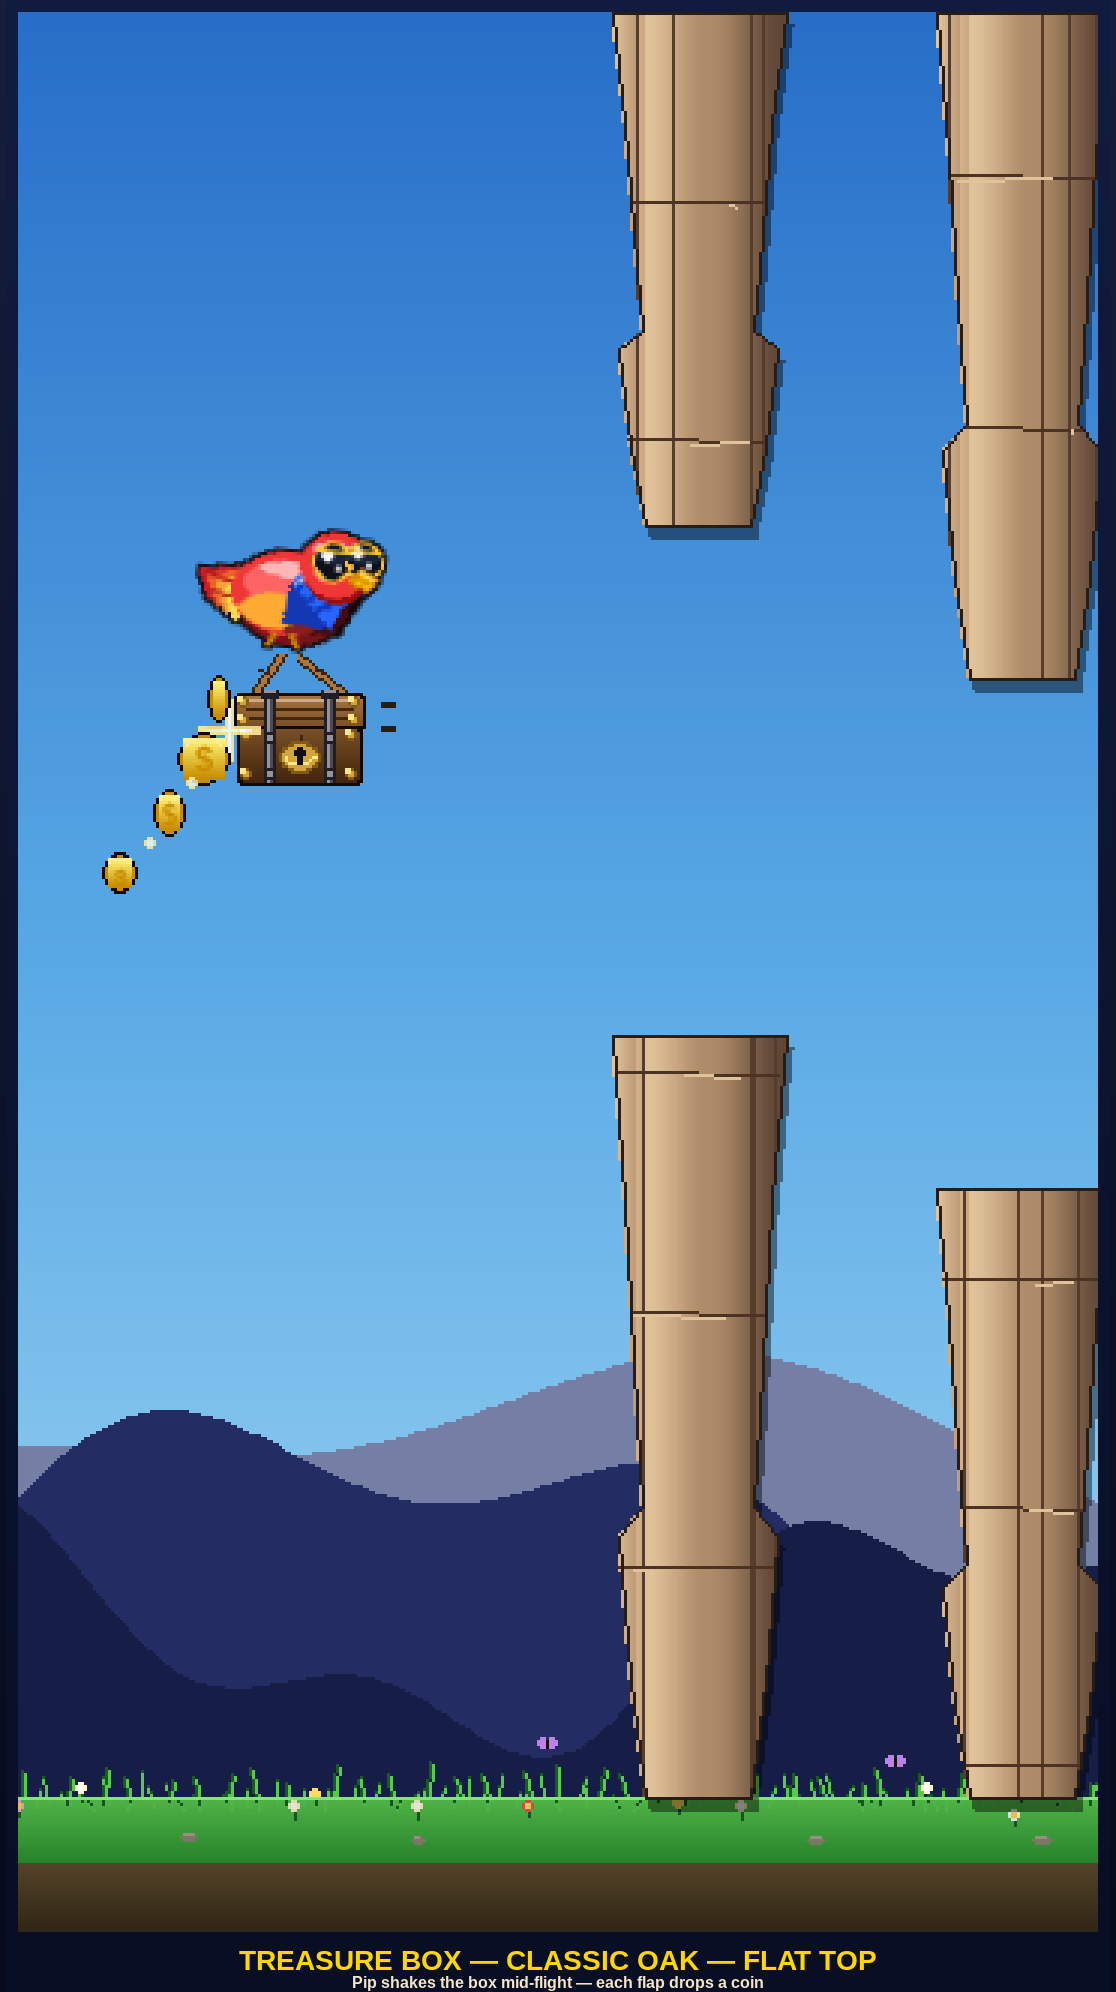
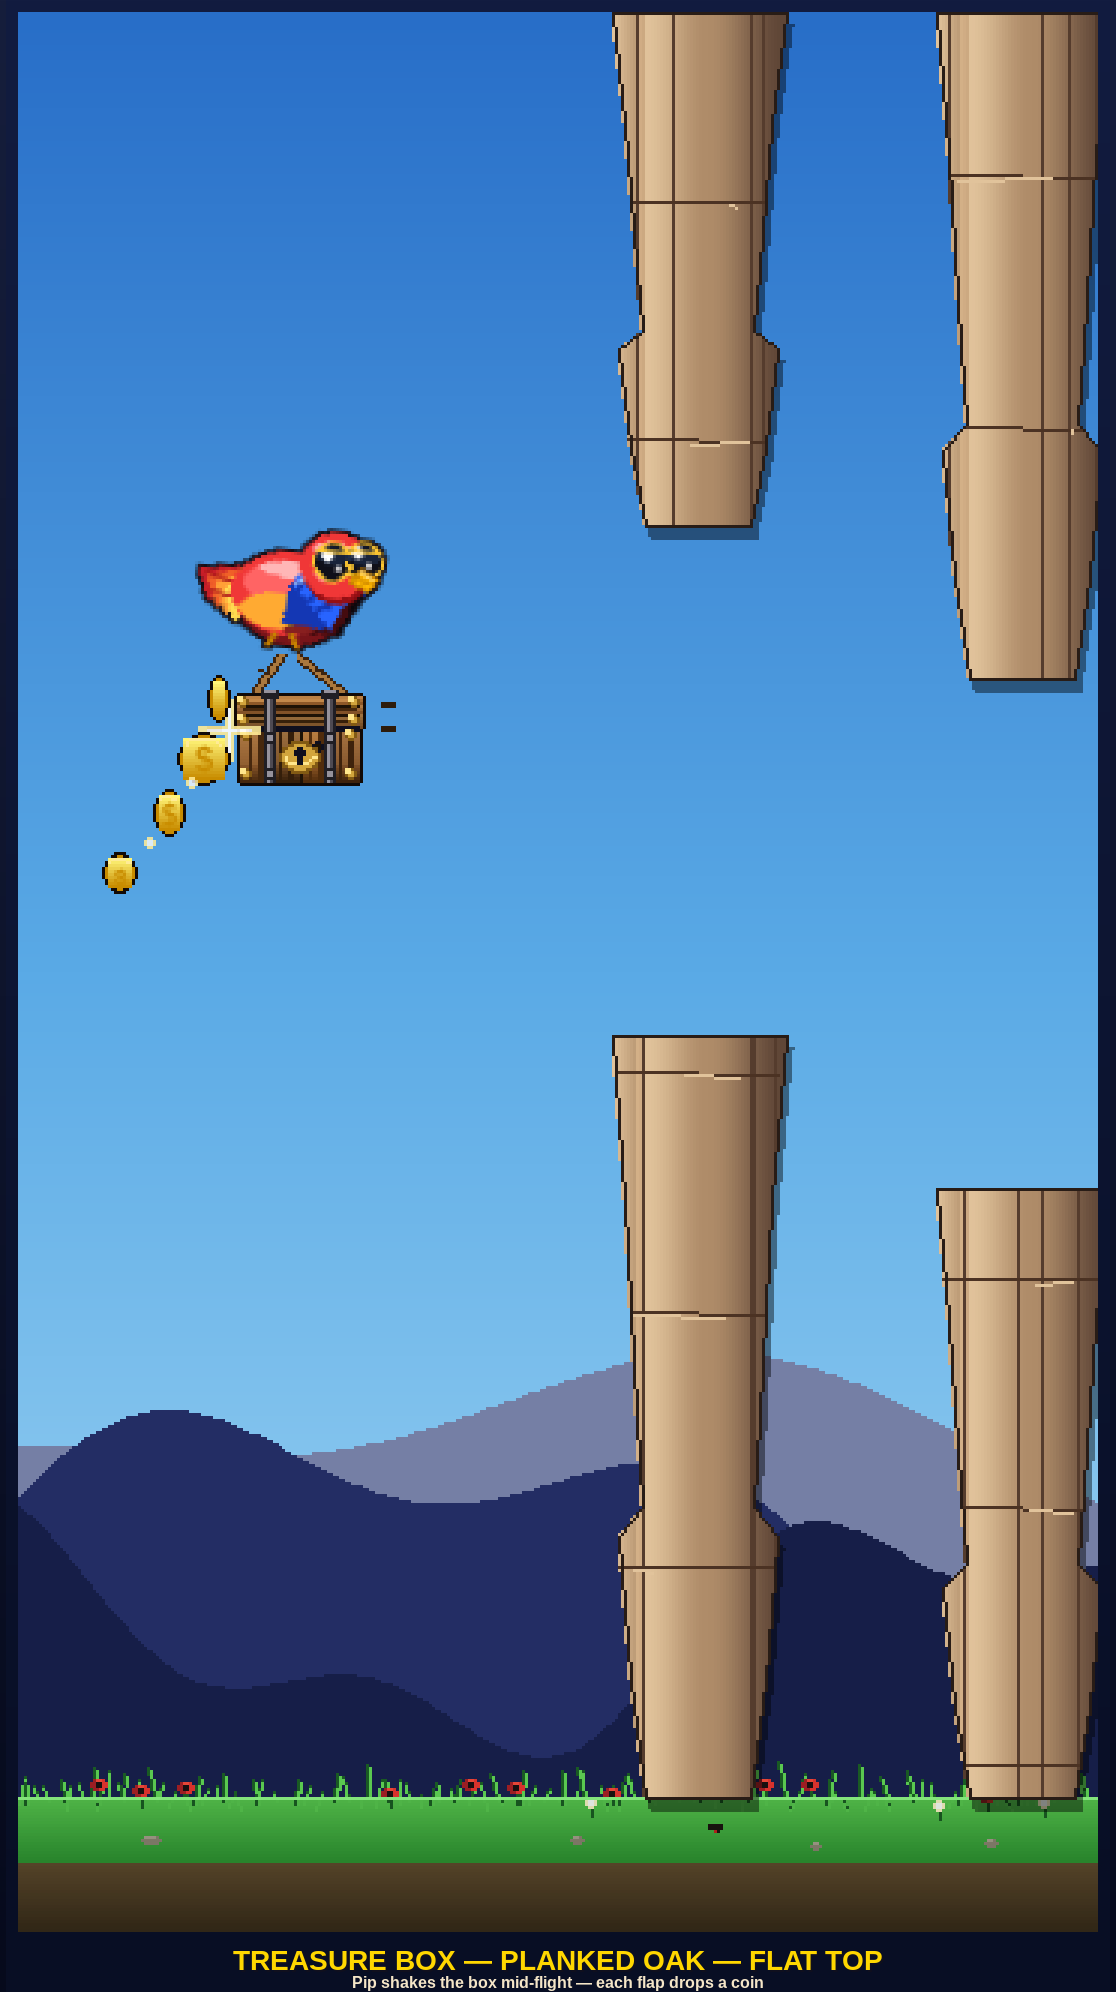
treasure-box: round 7 — visible plank construction so it reads as wood
Round 6 still read as briefcase because the body was a single
smooth-gradient slab — no real wood would look that uniform. Round 7
builds the chest from individual planks with visible seams:

  - Body front: 4 vertical planks, each ~10 px wide. Each plank picks
    its own slight RGB shift off the base oak tones so neighbouring
    planks read as different pieces of timber (one a little redder,
    one a little greyer, one a little lighter, etc.). Dark groove
    seams between planks. A small knot on plank 3.
  - Lid front: 3 horizontal slats, top to bottom getting darker (top
    catches more light, bottom is in shadow). Dark groove seams
    between slats.
  - Per-plank vertical grain streaks (2-3 darker hairlines per plank)
    + horizontal grain on the lid slats.
  - Iron wrap-straps, brass corner studs, brass oval keyhole plate
    all unchanged — they sit on top of the planked face.

Still just the one variant in the registry (PLANKED OAK — FLAT TOP).
Once the texture lands, I'll spin off sibling chests with the same
plank rig.

diff --git a/game/treasure_box_variants.py b/game/treasure_box_variants.py
@@ -1,16 +1,25 @@
-"""Treasure box power-up — round 6: flat-top variant of round 5's #1.
+"""Treasure box power-up — round 7: visible wood-plank construction.
 
-User picked round 5's CLASSIC OAK DOMED but asked for a flat lid
-instead of the curved dome. Same warm-oak palette, same iron wrap-
-straps, same brass keyhole plate, same carry ropes — only the lid
-geometry changes: a substantial flat slab on top of the body, with
-the iron straps now wrapping from the body's bottom up the front of
-the body AND the front of the lid, capped where they bend over the
-top edge.
+User feedback on round 6: the smooth-gradient flat-top still read as
+a briefcase. Real wooden chests are built from individual planks
+joined together — the SEAMS between planks, the knots, and the per-
+plank colour drift are what sell "this is wood" instead of "this is a
+manufactured shell."
 
-`draw_classic_oak_flat(surf, bird_cx, bird_cy, t=0.0)` paints the
-carry ropes, the chest, motion lines, and the 4-coin spill cascade.
-The bird itself is positioned by the caller.
+Round 7 rebuilds the chest face from individual planks:
+  - Body front face: 4 vertical planks (each ~10 px wide), each plank
+    has its own slight wood-tone variation + grain streaks + dark gap
+    seams between neighbouring planks. One plank carries a small knot.
+  - Lid front face: 3 horizontal planks (top, mid, bottom slats),
+    same per-plank colour drift + horizontal grain + dark gap seams
+    between them.
+  - Iron wrap-straps unchanged geometrically — they sit on top of the
+    plank face, hiding part of two planks each.
+
+Only one variant in the registry — user picked variant #1 in round 5
+and asked for two refinements (flat top + plank texture). When they
+approve the texture I'll spin off siblings for the colour palette and
+hardware passes.
 
 Preview-only — nothing in game/ imports this yet."""
 import math
@@ -36,10 +45,12 @@ IRON_HI    = (150, 146, 156)
 ROPE_BASE  = (170, 120,  62)
 ROPE_DARK  = ( 60,  35,  15)
 
-# Warm oak — same palette as round 5's classic_oak_domed.
-WOOD_HI   = (165, 115,  62)
-WOOD_MID  = (120,  78,  38)
-WOOD_DARK = ( 68,  38,  14)
+# Warm oak base tones. Each plank picks slight RGB shifts off these to
+# get the per-plank colour drift you see on real timber.
+WOOD_HI   = (175, 122,  68)
+WOOD_MID  = (130,  82,  40)
+WOOD_DARK = ( 70,  40,  14)
+WOOD_GROOVE = ( 30,  18,   6)   # the dark seam between planks
 
 
 # ── font cache ──────────────────────────────────────────────────────────────
@@ -119,31 +130,140 @@ def _shake_lines(surf, cx, cy, w=18, *, color=(40, 30, 20)):
 
 BOX_W  = 40
 BODY_H = 18
-LID_H  = 11        # substantial slab — NOT a briefcase-thin strip
+LID_H  = 11
 
 
 def _box_rect(cx, cy):
     return pygame.Rect(cx - BOX_W // 2, cy - BODY_H // 2, BOX_W, BODY_H)
 
 
-# ── helpers ─────────────────────────────────────────────────────────────────
+# ── plank rendering ─────────────────────────────────────────────────────────
 
-def _gradient_rect(surf, rect, top_col, bot_col, *, radius=3):
-    body = pygame.Surface((rect.w, rect.h), pygame.SRCALPHA)
+def _shift(rgb, dr, dg, db):
+    return (
+        max(0, min(255, rgb[0] + dr)),
+        max(0, min(255, rgb[1] + dg)),
+        max(0, min(255, rgb[2] + db)),
+    )
+
+
+# Per-plank colour drift. Each tuple is an (R, G, B) shift applied to
+# the base WOOD_HI / WOOD_MID / WOOD_DARK so each plank reads as its
+# own piece of timber — some redder, some greyer, some lighter at the
+# top, etc. Pulled from a quick survey of real-pirate-chest references
+# where planks rarely match perfectly.
+_BODY_PLANK_SHIFTS = (
+    (   0,   0,   0),    # plank 1 — base oak
+    ( -18, -10,  -4),    # plank 2 — slightly darker
+    ( +10,  +4,  -2),    # plank 3 — slightly redder/warmer
+    (  -8,  -6,  -2),    # plank 4 — slightly cooler
+)
+_LID_PLANK_SHIFTS = (
+    ( +12,  +6,   0),    # top slat — lighter (catches more light)
+    (   0,   0,   0),    # middle slat — base
+    ( -16,  -8,  -4),    # bottom slat — shadowed
+)
+
+
+def _paint_vertical_plank(surf, rect, hi, mid, dark):
+    """One vertical plank: top-to-bottom gradient + a few vertical
+    grain streaks for texture."""
+    # Gradient fill (top lighter, bottom darker)
     for y in range(rect.h):
         t = y / max(1, rect.h - 1)
-        c = lerp_color(top_col, bot_col, t) + (255,)
-        body.fill(c, pygame.Rect(0, y, rect.w, 1))
-    mask = pygame.Surface((rect.w, rect.h), pygame.SRCALPHA)
-    pygame.draw.rect(mask, (255, 255, 255, 255), mask.get_rect(),
-                     border_radius=radius)
-    body.blit(mask, (0, 0), special_flags=pygame.BLEND_RGBA_MIN)
-    surf.blit(body, rect.topleft)
+        c = lerp_color(hi, mid, t)
+        pygame.draw.line(surf, c,
+                         (rect.x, rect.y + y),
+                         (rect.right - 1, rect.y + y))
+    # Bottom 1/3 darker shadow
+    for y in range(rect.h * 2 // 3, rect.h):
+        t = (y - rect.h * 2 // 3) / max(1, rect.h // 3 - 1)
+        c = lerp_color(mid, dark, t)
+        pygame.draw.line(surf, c,
+                         (rect.x, rect.y + y),
+                         (rect.right - 1, rect.y + y))
+    # Vertical grain streaks — 2-3 thin darker lines running the height
+    # of the plank, at slightly random horizontal positions
+    grain_xs = (rect.w // 3, rect.w // 2 + 1, rect.w - 3)
+    for gx_off in grain_xs:
+        gx = rect.x + gx_off
+        if rect.x < gx < rect.right - 1:
+            pygame.draw.line(surf, dark,
+                             (gx, rect.y + 1),
+                             (gx, rect.bottom - 2), 1)
 
+
+def _paint_horizontal_plank(surf, rect, hi, mid, dark):
+    """One horizontal plank (used on the lid): top-to-bottom gradient
+    + horizontal grain streaks running along the plank's length."""
+    for y in range(rect.h):
+        t = y / max(1, rect.h - 1)
+        c = lerp_color(hi, mid, t)
+        pygame.draw.line(surf, c,
+                         (rect.x, rect.y + y),
+                         (rect.right - 1, rect.y + y))
+    # Horizontal grain — 1 darker line near the centre of the plank
+    if rect.h >= 3:
+        gy = rect.y + rect.h // 2
+        pygame.draw.line(surf, dark,
+                         (rect.x + 2, gy),
+                         (rect.right - 3, gy), 1)
+
+
+def _draw_body_planks(surf, body):
+    """Paint the body face as 4 vertical planks with dark seam-grooves
+    between them and a single knot on one plank."""
+    n = 4
+    plank_w = body.w // n
+    for i in range(n):
+        plank_x = body.x + i * plank_w
+        # Last plank picks up any width remainder
+        pw = plank_w if i < n - 1 else body.right - plank_x
+        rect = pygame.Rect(plank_x, body.y, pw, body.h)
+        ds = _BODY_PLANK_SHIFTS[i]
+        hi   = _shift(WOOD_HI,   *ds)
+        mid  = _shift(WOOD_MID,  *ds)
+        dark = _shift(WOOD_DARK, *ds)
+        _paint_vertical_plank(surf, rect, hi, mid, dark)
+
+    # Dark seam-grooves between planks
+    for i in range(1, n):
+        gx = body.x + i * plank_w
+        pygame.draw.line(surf, WOOD_GROOVE,
+                         (gx, body.y + 1), (gx, body.bottom - 1), 1)
+
+    # Knot on plank 3 (slightly off-centre, near the upper-mid of the plank)
+    knot_cx = body.x + 2 * plank_w + plank_w // 2 + 1
+    knot_cy = body.y + body.h // 3
+    pygame.draw.circle(surf, NEAR_BLACK, (knot_cx, knot_cy), 2)
+    pygame.draw.circle(surf, WOOD_GROOVE, (knot_cx, knot_cy), 1)
+
+
+def _draw_lid_planks(surf, lid):
+    """Paint the lid as 3 horizontal slats with dark seam-grooves
+    between them."""
+    n = 3
+    plank_h = lid.h // n
+    for i in range(n):
+        plank_y = lid.y + i * plank_h
+        ph = plank_h if i < n - 1 else lid.bottom - plank_y
+        rect = pygame.Rect(lid.x, plank_y, lid.w, ph)
+        ds = _LID_PLANK_SHIFTS[i]
+        hi   = _shift(WOOD_HI,   *ds)
+        mid  = _shift(WOOD_MID,  *ds)
+        dark = _shift(WOOD_DARK, *ds)
+        _paint_horizontal_plank(surf, rect, hi, mid, dark)
+
+    # Dark seam-grooves between lid slats
+    for i in range(1, n):
+        gy = lid.y + i * plank_h
+        pygame.draw.line(surf, WOOD_GROOVE,
+                         (lid.x + 1, gy), (lid.right - 2, gy), 1)
+
+
+# ── carry ropes + chest assembly ────────────────────────────────────────────
 
 def _draw_carry_ropes(surf, bird_cx, bird_cy, body_rect, lid_y):
-    """Two short hemp ropes from Pip's talons to the top-front corners
-    of the LID (above body.y, since the lid is a substantial slab)."""
     for tx, talon_dx in ((body_rect.x + 4, -3), (body_rect.right - 5, 3)):
         sx, sy = bird_cx + talon_dx, bird_cy + 22
         ex, ey = tx, lid_y - 1
@@ -154,33 +274,27 @@ def _draw_carry_ropes(surf, bird_cx, bird_cy, body_rect, lid_y):
 
 
 def _draw_chest(surf, body):
-    """Flat-top pirate chest: thick rectangular lid slab on top of the
-    rectangular body, with the iron strapping passing across both."""
+    """Flat-top plank chest: lid + body, both built from visible planks
+    with dark seam-grooves between them. Returns the lid rect."""
     lid = pygame.Rect(body.x - 1, body.y - LID_H, body.w + 2, LID_H)
 
-    # ── Lid slab ──
+    # Hairline dark outline behind both pieces
     pygame.draw.rect(surf, DK_OUTLINE, lid.inflate(2, 2), border_radius=2)
-    _gradient_rect(surf, lid, WOOD_HI, WOOD_MID, radius=2)
-    # Top-edge sheen
-    pygame.draw.line(surf, lerp_color(WOOD_HI, WHITE, 0.4),
-                     (lid.x + 3, lid.y + 1), (lid.right - 4, lid.y + 1), 1)
-    # Horizontal grain lines on the lid face
-    for gy in (lid.y + 4, lid.y + 7):
-        pygame.draw.line(surf, WOOD_DARK,
-                         (lid.x + 3, gy), (lid.right - 4, gy), 1)
+    pygame.draw.rect(surf, DK_OUTLINE, body.inflate(2, 2), border_radius=2)
 
-    # ── Dark seam where lid meets body ──
+    # Paint the plank faces
+    _draw_lid_planks(surf, lid)
+    _draw_body_planks(surf, body)
+
+    # The seam between lid and body (deeper/darker — this is where the
+    # lid would crack open if hinged).
     pygame.draw.rect(surf, NEAR_BLACK,
                      pygame.Rect(body.x, body.y - 1, body.w, 2))
 
-    # ── Body ──
-    pygame.draw.rect(surf, DK_OUTLINE, body.inflate(2, 2), border_radius=2)
-    _gradient_rect(surf, body, WOOD_MID, WOOD_DARK, radius=2)
-    # Vertical grain on the body
-    for i in range(1, 4):
-        gx = body.x + (body.w * i) // 4
-        pygame.draw.line(surf, WOOD_DARK,
-                         (gx, body.y + 2), (gx, body.bottom - 3), 1)
+    # Faint top-edge sheen on the lid to suggest sunlight catching the
+    # rounded top corners of the planks.
+    pygame.draw.line(surf, _shift(WOOD_HI, 20, 14, 6),
+                     (lid.x + 3, lid.y + 1), (lid.right - 4, lid.y + 1), 1)
 
     return lid
 
@@ -188,10 +302,6 @@ def _draw_chest(surf, body):
 def _draw_wrap_strap(surf, body, lid, dx_from_centre, *,
                      strap_w=4,
                      dark=IRON_DARK, mid=IRON_BASE, hi=IRON_HI):
-    """Iron strap wrapping from the body's bottom UP the front of the
-    body AND the front of the lid, then bending over the top edge to
-    the back. We see one continuous vertical band on the front + a
-    tiny dark cap where it crests the lid."""
     strap_cx = body.centerx + dx_from_centre
     strap_x = strap_cx - strap_w // 2
     band = pygame.Rect(strap_x, lid.y, strap_w, body.bottom - lid.y)
@@ -205,15 +315,13 @@ def _draw_wrap_strap(surf, body, lid, dx_from_centre, *,
     pygame.draw.rect(surf, dark, cap)
     pygame.draw.line(surf, hi,
                      (cap.x + 1, cap.y), (cap.right - 2, cap.y), 1)
-    # Rivet heads at top of body strap + bottom of strap
+    # Rivets — one at the top of the body strap, one near the bottom
     for ry in (body.y + 3, body.bottom - 3):
         pygame.draw.circle(surf, dark, (strap_cx, ry), 2)
         pygame.draw.circle(surf, hi,   (strap_cx, ry), 1)
 
 
 def _draw_corner_studs(surf, rect):
-    """Brass studs at the corners of a given rect (used for both the
-    body and the lid)."""
     for cnx, cny in (
         (rect.x + 2,     rect.y + 2),
         (rect.right - 3, rect.y + 2),
@@ -237,10 +345,10 @@ def _draw_lock_plate(surf, body):
 
 
 # ════════════════════════════════════════════════════════════════════════════
-# CLASSIC OAK — FLAT TOP
+# CLASSIC OAK — FLAT TOP — PLANKED
 # ════════════════════════════════════════════════════════════════════════════
 
-def draw_classic_oak_flat(surf, bird_cx, bird_cy, t=0.0):
+def draw_planked_oak(surf, bird_cx, bird_cy, t=0.0):
     cx = bird_cx + 4
     cy = bird_cy + 56
     body = _box_rect(cx, cy)
@@ -250,15 +358,11 @@ def draw_classic_oak_flat(surf, bird_cx, bird_cy, t=0.0):
 
     lid = _draw_chest(surf, body)
 
-    # Two iron wrap-straps, evenly placed
     _draw_wrap_strap(surf, body, lid, dx_from_centre=-10)
     _draw_wrap_strap(surf, body, lid, dx_from_centre= 10)
 
-    # Brass studs on both the body corners AND the lid corners — the
-    # extra row on the lid sells "substantial slab" vs. "briefcase strip"
     _draw_corner_studs(surf, body)
     _draw_corner_studs(surf, lid)
-
     _draw_lock_plate(surf, body)
 
     _shake_lines(surf, cx, body.y - LID_H // 2, w=BOX_W, color=(45, 28, 12))
@@ -268,5 +372,5 @@ def draw_classic_oak_flat(surf, bird_cx, bird_cy, t=0.0):
 # ── Registry ────────────────────────────────────────────────────────────────
 
 VARIANTS = [
-    ("classic_oak_flat", "CLASSIC OAK — FLAT TOP", draw_classic_oak_flat),
+    ("planked_oak", "PLANKED OAK — FLAT TOP", draw_planked_oak),
 ]
